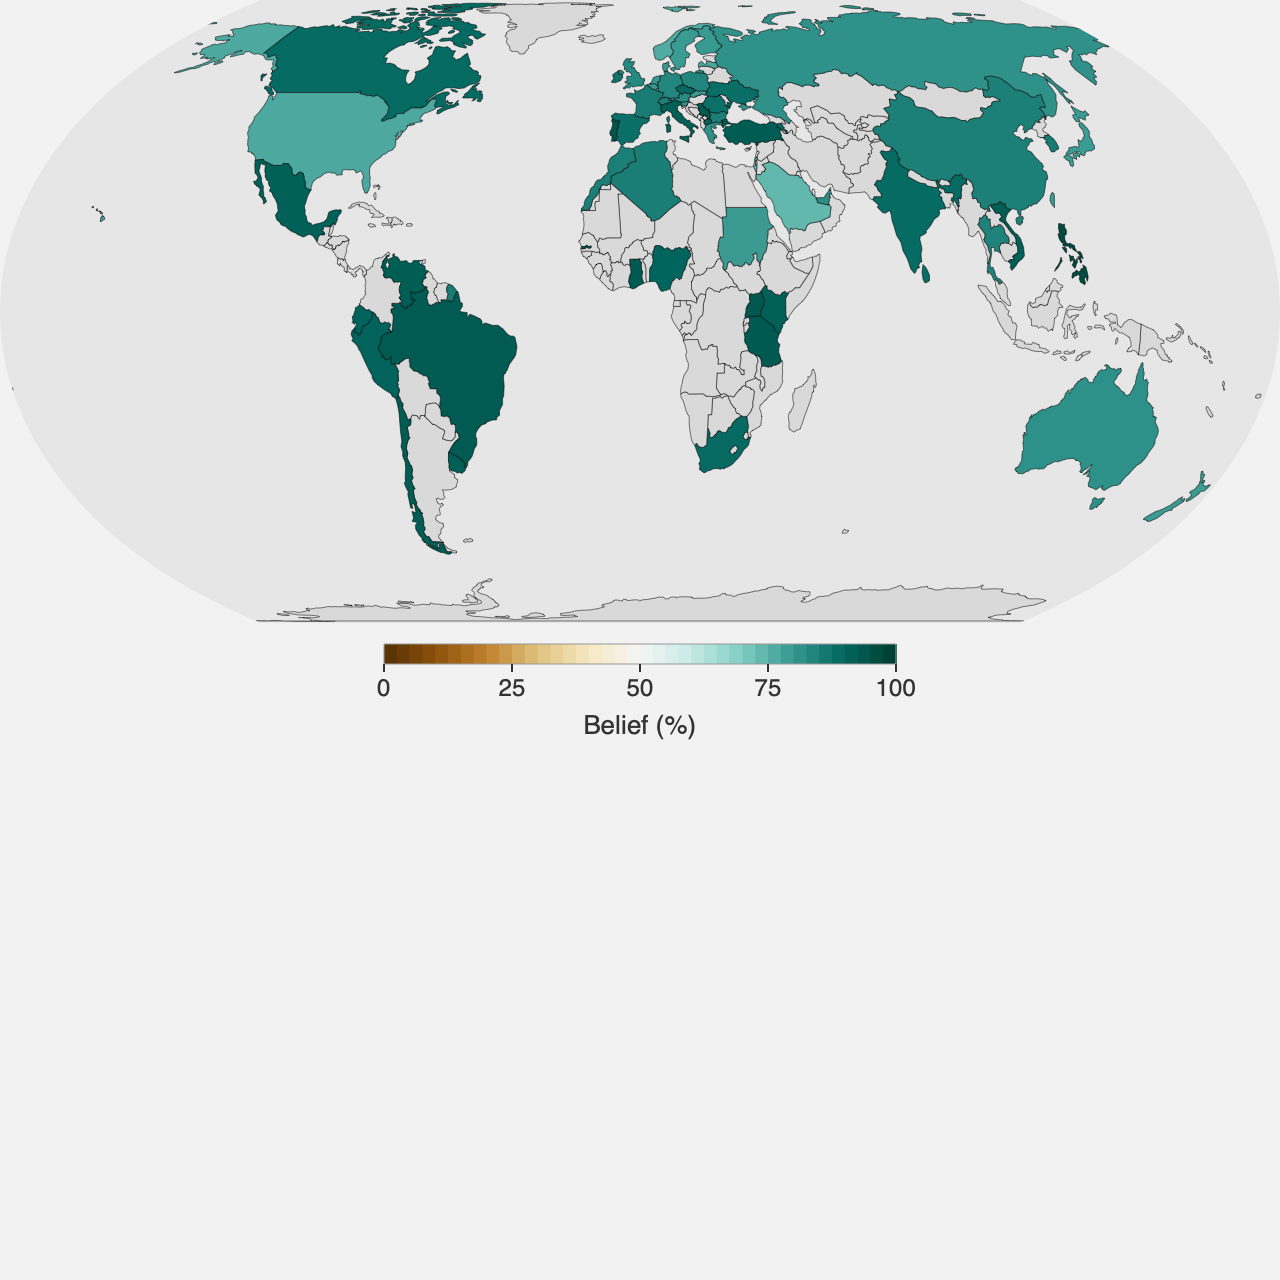
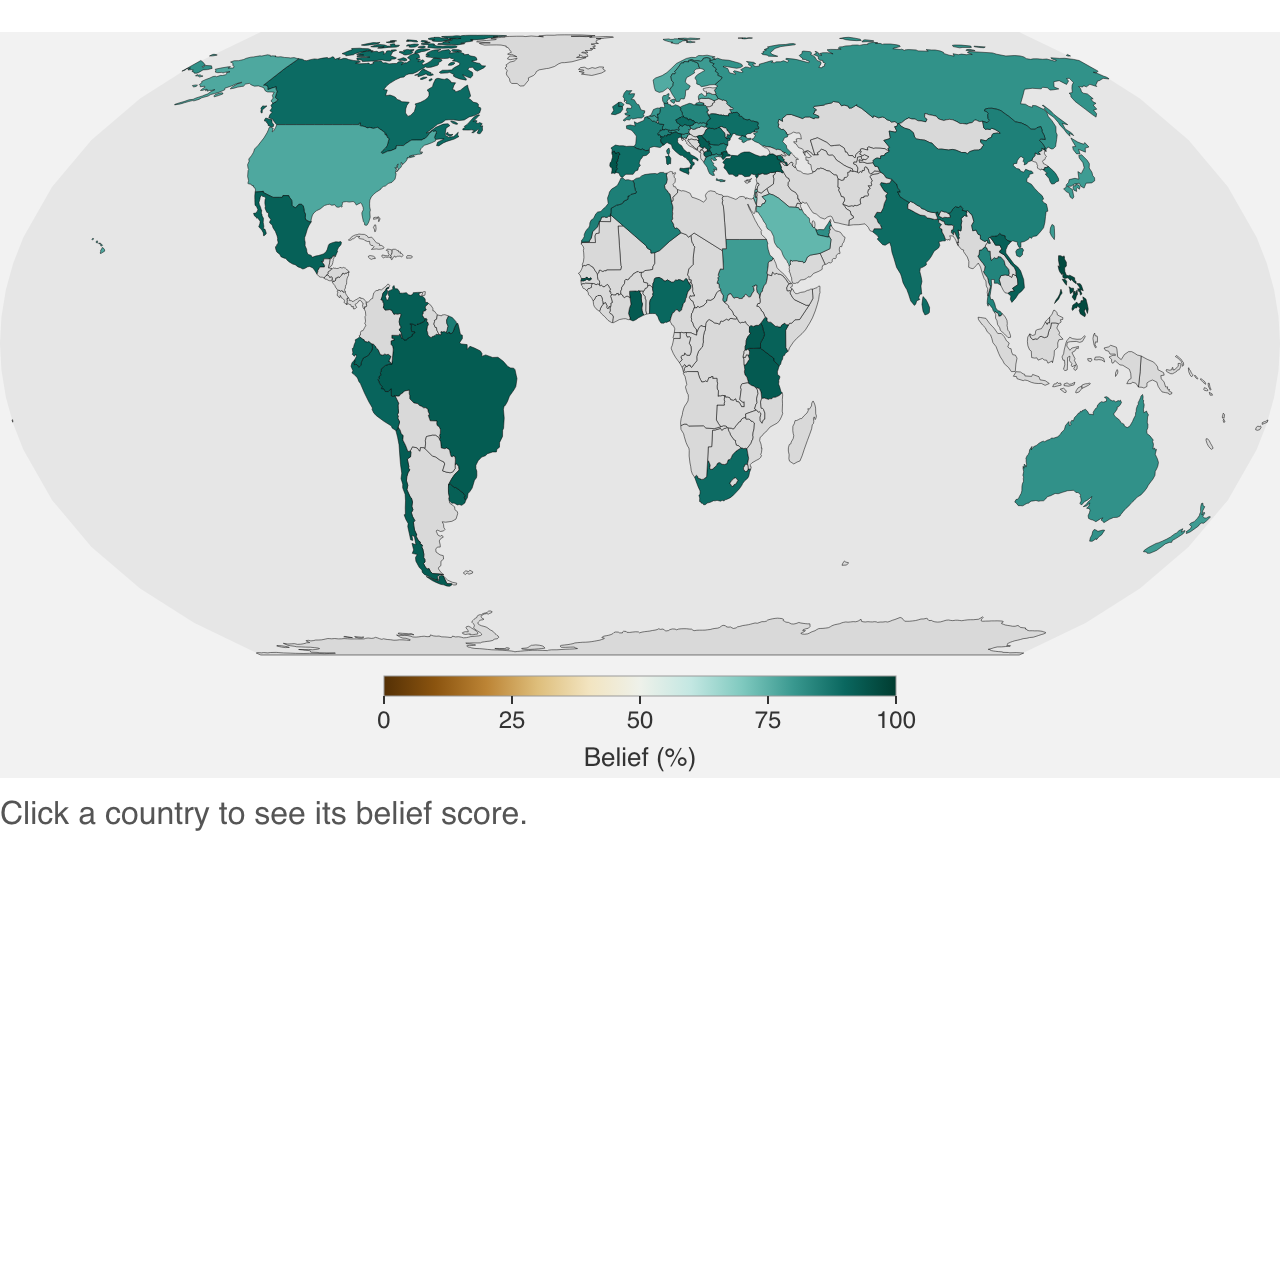
Use a continuous colorbar and restore the homepage thumbnails
Replaces the seven stepped bins with a continuous YlGnBu ramp and a
gradient colorbar ticked every ten points. The domain still starts at 30
rather than 0: every share falls between 30.5% and 98.2%, so anchoring
at zero would spend half the ramp on empty range.

Also captures the thumbnail the homepage card needs, which unblocks the
card image that was commented out to get the site deploying again.
Chrome is current now (152), so scripts/take-thumbnails.sh works; it
refreshed the other maps too, and sst-daily moved because its source
data advanced to Aug 30.

Worth knowing: belief-map came out blank on the first pass. The script
checks the rendered DOM and takes the screenshot in two separate Chrome
runs, so a capture that races the widget's first paint still passes the
guard and silently overwrites a good thumbnail with a white square.

Changed region(s): [[0.125, 0.0, 0.9688, 0.5938], [0.0, 0.625, 0.4062, 0.6562]]

diff --git a/src/climate-action-support/widget.js b/src/climate-action-support/widget.js
@@ -17,23 +17,21 @@
 // its whole block and replaces the DOM outright, discarding any mid-animation state.
 import {geoEqualEarth, geoPath} from "https://cdn.jsdelivr.net/npm/d3-geo@3/+esm";
 import {feature} from "https://cdn.jsdelivr.net/npm/topojson-client@3/+esm";
-import {schemeYlGnBu} from "https://cdn.jsdelivr.net/npm/d3-scale-chromatic@3/+esm";
+import {interpolateYlGnBu} from "https://cdn.jsdelivr.net/npm/d3-scale-chromatic@3/+esm";
 
 const BACKGROUND = "#f2f2f2";
 const OCEAN = "#e6e6e6";
 const NO_DATA = "#d9d9d9";
 const BAR_FILL = "#555";
 
-// The paper's scale, not the BrBG ramp the two Vlasceanu maps use: seven steps of ten
-// points starting at 30%, pale at the low end and dark at the high end. The figure itself
-// is colored by viridis's mako reversed, which no JavaScript colormap package ships, so
-// this uses ColorBrewer's 7-class YlGnBu — the nearest named equivalent, and the same
-// pale-yellow to green to teal to blue progression. It tracks mako closely through the
-// first five bins and parts company only at the top, where mako runs to near-black and
-// YlGnBu stops at navy.
-const BIN_COLORS = schemeYlGnBu[7];
-const BIN_MIN = 30;
-const BIN_STEP = 10;
+// YlGnBu rather than the BrBG ramp the two Vlasceanu maps use: this is a share, not a
+// diverging score, so it wants a sequential scale, and pale-yellow to green to teal to
+// blue is the closest named equivalent of the mako the paper colors Fig. 1 with.
+//
+// The domain starts at 30, not 0: every observed share falls between 30.5% and 98.2%, so
+// anchoring at zero would spend half the ramp on empty range and flatten the contrast
+// across the countries that actually differ.
+const DOMAIN = [30, 100];
 
 const MAP_WIDTH = 640;
 const MIN_MAP_WIDTH = 280;
@@ -121,6 +119,8 @@ export function parseClimateActionSupport(text) {
 }
 
 
+let gradSeq = 0;
+
 export function createClimateActionSupportWidget({data, world, width = MAP_WIDTH + 16 + BAR_WIDTH}) {
   const {world: globalRow, countries} = data;
   const geoFeatures = feature(world, world.objects.countries).features;
@@ -132,13 +132,12 @@ export function createClimateActionSupportWidget({data, world, width = MAP_WIDTH
     console.warn("climate-action-support: no polygon for", missing.map(r => r.country).join(", "));
   }
 
-  // Every observed share sits inside 30-100 (the lowest is 30.5%), so nothing is clamped
-  // in practice; the clamp is only there so a future data refresh cannot fall off the end.
-  const color = value => {
-    if (!Number.isFinite(value)) return NO_DATA;
-    const i = Math.floor((value - BIN_MIN) / BIN_STEP);
-    return BIN_COLORS[Math.max(0, Math.min(BIN_COLORS.length - 1, i))];
-  };
+  // Every observed share sits inside the domain, so nothing is clamped in practice; the
+  // clamp is only there so a future data refresh cannot fall off either end.
+  const ramp = t => interpolateYlGnBu(Math.max(0, Math.min(1, t)));
+  const color = value => Number.isFinite(value)
+    ? ramp((value - DOMAIN[0]) / (DOMAIN[1] - DOMAIN[0]))
+    : NO_DATA;
 
   let metricIndex = 0;
   let selected = null; // pinned polygon name
@@ -314,6 +313,9 @@ export function createClimateActionSupportWidget({data, world, width = MAP_WIDTH
   tooltip.hidden = true;
   mapWrap.appendChild(tooltip);
 
+  // SVG gradient ids are looked up document-wide, so two of these widgets on one page must
+  // not share one.
+  const gradId = `climate-action-support-gradient-${gradSeq++}`;
   let totalH = 0;
   let pathByName = new Map();
   // Where the tooltip is pinned, in mapWrap-relative coordinates. Kept separate from what
@@ -332,13 +334,12 @@ export function createClimateActionSupportWidget({data, world, width = MAP_WIDTH
     const path = geoPath(projection);
     const mapH = Math.ceil(path.bounds({type: "Sphere"})[1][1]);
 
-    const swatchW = 30;
-    const swatchH = 12;
-    const legendW = swatchW * BIN_COLORS.length;
-    const legendX = Math.round((mapW - legendW) / 2);
-    const legendY = mapH + 10;
-    const tickY = legendY + swatchH + 14;
-    totalH = tickY + 6; // the legend's labels end the SVG; its caption is the title above
+    const barW = Math.max(220, Math.round(mapW * 0.5));
+    const barX = Math.round((mapW - barW) / 2);
+    const barY = mapH + 10;
+    const barH = 10;
+    const tickY = barY + barH + 16;
+    totalH = tickY + 6; // the colorbar's ticks end the SVG; its caption is the title above
 
     mapSvg.setAttribute("width", mapW);
     mapSvg.setAttribute("height", totalH);
@@ -346,6 +347,14 @@ export function createClimateActionSupportWidget({data, world, width = MAP_WIDTH
     // The pin is anchored to the coordinates of a past click, which a reflow makes stale;
     // the selection itself is width-independent and survives in the status line.
     hideTooltip();
+
+    const defs = svgEl("defs", {});
+    const grad = svgEl("linearGradient", {id: gradId, x1: 0, y1: 0, x2: 1, y2: 0});
+    for (let i = 0; i <= 10; i++) {
+      grad.appendChild(svgEl("stop", {offset: `${i * 10}%`, "stop-color": ramp(i / 10)}));
+    }
+    defs.appendChild(grad);
+    mapSvg.appendChild(defs);
 
     mapSvg.appendChild(svgEl("rect", {width: mapW, height: totalH, fill: BACKGROUND}));
     mapSvg.appendChild(svgEl("path", {d: path({type: "Sphere"}), fill: OCEAN}));
@@ -374,21 +383,21 @@ export function createClimateActionSupportWidget({data, world, width = MAP_WIDTH
     }
     mapSvg.appendChild(g);
 
-    // Stepped legend, one swatch per bin, labelled by its lower edge as the paper labels
-    // them ("30%+" ... "90%+") rather than by tick marks on a continuous ramp.
-    const legend = svgEl("g", {"font-size": 10, fill: "#333"});
-    BIN_COLORS.forEach((fill, i) => {
-      legend.appendChild(svgEl("rect", {
-        x: legendX + i * swatchW, y: legendY, width: swatchW, height: swatchH,
-        fill, stroke: "#999", "stroke-width": 0.5,
+    const bar = svgEl("g", {"font-size": 11, fill: "#333"});
+    bar.appendChild(svgEl("rect", {
+      x: barX, y: barY, width: barW, height: barH,
+      fill: `url(#${gradId})`, stroke: "#999", "stroke-width": 0.5,
+    }));
+    for (let v = DOMAIN[0]; v <= DOMAIN[1]; v += 10) {
+      const tx = barX + (barW * (v - DOMAIN[0])) / (DOMAIN[1] - DOMAIN[0]);
+      bar.appendChild(svgEl("line", {
+        x1: tx, y1: barY + barH, x2: tx, y2: barY + barH + 4, stroke: "#333", "stroke-width": 1,
       }));
-      const t = svgEl("text", {
-        x: legendX + i * swatchW + swatchW / 2, y: tickY, "text-anchor": "middle",
-      });
-      t.textContent = `${BIN_MIN + i * BIN_STEP}%+`;
-      legend.appendChild(t);
-    });
-    mapSvg.appendChild(legend);
+      const t = svgEl("text", {x: tx, y: tickY, "text-anchor": "middle"});
+      t.textContent = `${v}%`;
+      bar.appendChild(t);
+    }
+    mapSvg.appendChild(bar);
 
     // The bar chart is sized to whatever the map came out at, so the two panels share a
     // top and a bottom edge at every width.
@@ -405,7 +414,7 @@ export function createClimateActionSupportWidget({data, world, width = MAP_WIDTH
       p.setAttribute("fill", color(value));
     }
     mapSvg.setAttribute("aria-label",
-      `World map with countries shaded by ${metric.mapTitle.toLowerCase()}, in steps of ten points from 30% up`);
+      `World map with countries shaded by ${metric.mapTitle.toLowerCase()}, 30% to 100%`);
   }
 
   mapSvg.addEventListener("click", () => {

diff --git a/src/climate-action-support/index.md b/src/climate-action-support/index.md
@@ -21,7 +21,7 @@ const country = view(createClimateActionSupportWidget({data: support, world}));
 
 ## About the data
 
-The values are derived in [`scripts/climate-action-support.jl`](https://github.com/briochemc/ClimateWidgets/blob/main/scripts/climate-action-support.jl) from the survey microdata on the [IZA Dataverse](https://doi.org/10.15185/gccs.1), following the aggregation in the paper's own replication code: each country's share is weighted by the within-country sampling weight, and the global bars by a weight that additionally makes the country mix population-representative. The figure recreates the paper's Fig. 1, including its stepped color scale — seven ten-point bins from 30% up — though in ColorBrewer's YlGnBu rather than the paper's mako, which no JavaScript colormap package provides. Hong Kong, Singapore, Malta and Mauritius are in the survey but have no polygon at this map's resolution.
+The values are derived in [`scripts/climate-action-support.jl`](https://github.com/briochemc/ClimateWidgets/blob/main/scripts/climate-action-support.jl) from the survey microdata on the [IZA Dataverse](https://doi.org/10.15185/gccs.1), following the aggregation in the paper's own replication code: each country's share is weighted by the within-country sampling weight, and the global bars by a weight that additionally makes the country mix population-representative. The figure recreates the paper's Fig. 1, though with a continuous YlGnBu scale in place of the paper's stepped mako one. It runs from 30% rather than 0%, since every country's share falls between 30.5% and 98.2% and anchoring at zero would spend half the ramp on empty range. Hong Kong, Singapore, Malta and Mauritius are in the survey but have no polygon at this map's resolution.
 
 ## Embed this widget
 

diff --git a/src/index.md b/src/index.md
@@ -25,12 +25,7 @@ Small, self-contained interactive figures for teaching climate science. Each wid
   </a>
   <a class="card" href="./climate-action-support/">
     <h2>Support for climate action</h2>
-    <!-- Thumbnail pending: scripts/take-thumbnails.sh needs a working Chrome, and the one
-         installed here (121, Jan 2024) crashes on this macOS. Once it captures
-         climate-action-support.png, restore the <img> the other cards use:
-         <img class="thumb" src="./assets/thumbnails/climate-action-support.png" alt="A bar
-         chart and a world map in the Equal Earth projection, shaded from brown to
-         blue-green by share willing to contribute income to fight global warming"> -->
+    <img class="thumb" src="./assets/thumbnails/climate-action-support.png" alt="A bar chart of global yes/no shares beside a world map in the Equal Earth projection, shaded from pale yellow to navy by the share willing to contribute 1% of income to fight global warming">
   </a>
 </div>
 
